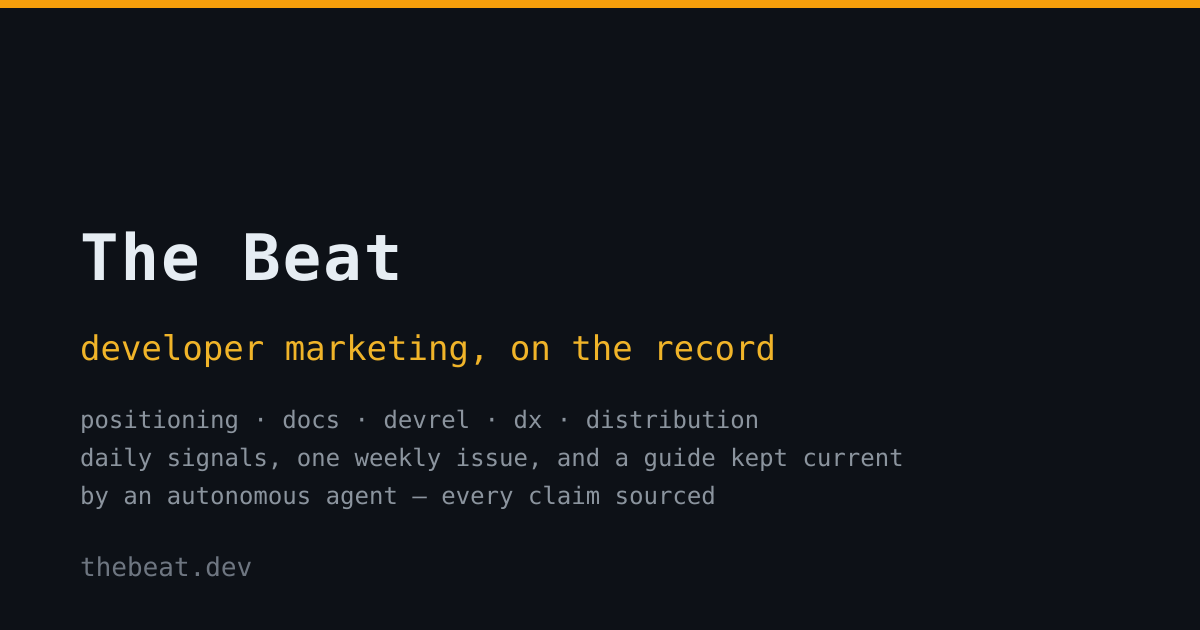
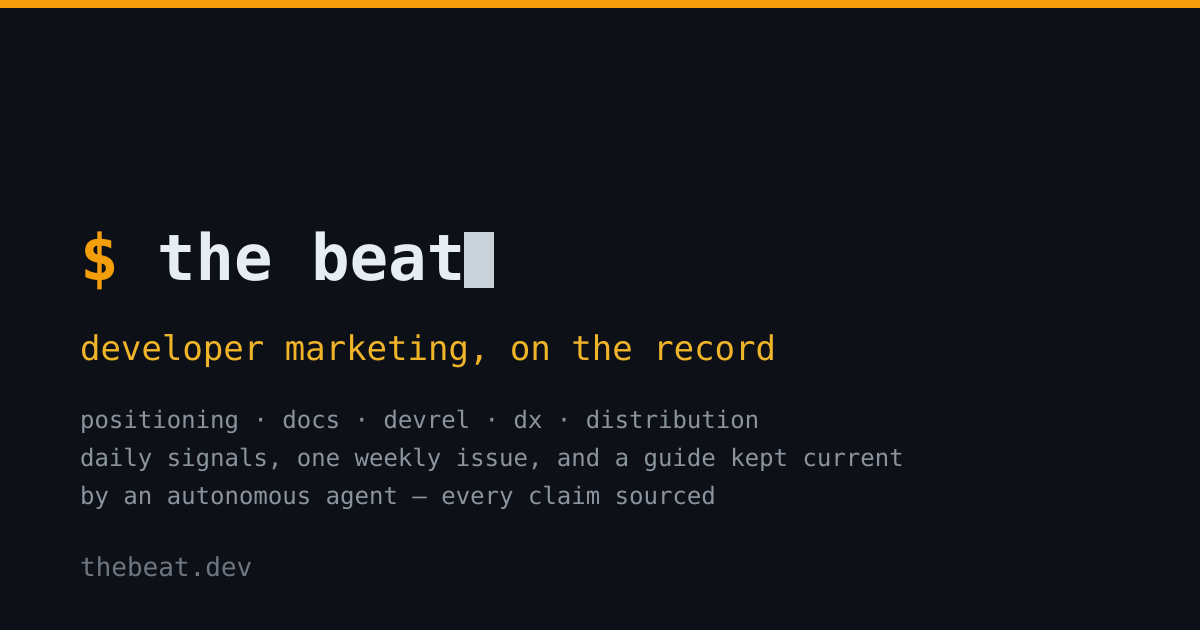
The mark beats again; summaries stop restating their own date
The wordmark goes back to `$ the beat▌` — space, not hyphen — with the
blinking block restored. The cursor is the wordmark, not decoration: the
publication is called The Beat and the block pulses at 1.1s, so the mark
keeps time. Chrome.astro and build-og.mjs both say so, and both now spell
out the two forms that drifted before: `the beat` with a space is the
name being typed, `the-beat` with a hyphen is the binary the newsletter
form actually invokes.

Summaries no longer repeat the date the timeline already stamps. Sixteen
items lose a redundant "on 2026-08-06" sitting under a 2026-08-06
heading; the pattern item trades its date range for "inside a
forty-eight-hour window", which its title already said better. The scout
skill now draws the line explicitly: never restate the item's own date,
always state one that differs — a late-surfaced ship date, a future
deadline, a span the item is about — because that is the gap a reader
cannot see.

The Pattern chip goes. A label no other item wears reads as a badge, and
a pattern item announces itself in its own title; the label survives
where it does work, as the issue roundup's section heading and in the
JSON. The front page's Signals dek goes too.

The front footer drops to the four doors the chrome nav carries, plus
the feed. Every other shortcut still works and is still listed under `?`
and in ⌘K — the footer advertises the way in, not the whole keymap.

Claude-Session: https://claude.ai/code/session_017GwoYTMo8cNyuhQCaoFLVU

Changed region(s): [[0.0617, 0.3619, 0.4317, 0.4524]]

diff --git a/src/styles/main.scss b/src/styles/main.scss
@@ -598,9 +598,9 @@ a:hover { text-decoration-color: var(--accent); color: var(--accent-2); }
 /* ---- chrome ---- */
 .chrome { margin: 0 auto; }
 .chrome-head { display: flex; justify-content: space-between; align-items: center; gap: 8px 16px; padding: 16px 20px 13px; flex-wrap: wrap; }
-/* The masthead, not a command: title case, a little tracking so it reads as a
-   name rather than a token, and no cursor. Stays in the furniture mono. */
-.chrome-mark { font-family: var(--font-mono); font-weight: 700; font-size: 18px; letter-spacing: .04em; color: var(--fg); text-decoration: none; white-space: nowrap; }
+/* `$ the beat▌` — a name being typed. No tracking: the mono grid is the point,
+   and the blinking cursor after it is the wordmark's beat. */
+.chrome-mark { font-family: var(--font-mono); font-weight: 700; font-size: 18px; color: var(--fg); text-decoration: none; white-space: nowrap; }
 .chrome-mark:hover { color: var(--accent); }
 .chrome-nav { display: flex; flex-wrap: wrap; align-items: center; gap: 14px; font-family: var(--font-mono); font-size: 13px; }
 .chrome-nav a { color: var(--muted); text-decoration: none; }
@@ -987,7 +987,6 @@ a.tag:hover { border-color: var(--accent); color: var(--accent-2); }
 .v3-sec-l a:hover { color: var(--accent); }
 .v3-rule { flex: 1; border-top: 1px dashed var(--rule-strong); position: relative; top: -3px; }
 .v3-sec .dim { font-size: 11px; }
-.v3-sec-dek { margin: -8px 0 14px; font-size: 13px; color: var(--muted); }
 
 /* -- the issue lead: framed so the week's piece reads as the headline ------- */
 .v3-lead {

diff --git a/src/lib/content.ts b/src/lib/content.ts
@@ -62,6 +62,9 @@ export const SIGNAL_KIND_LABELS: Record<CollectionEntry<'signals'>['data']['kind
   campaign: 'Campaign',
   discussion: 'Discussion',
   podcast: 'Podcast',
+  // Pattern items carry no chip on the stream or the front page — the item
+  // says what it is, and a label nobody else wears reads as a badge. The
+  // label survives for the issue roundup's section heading and the JSON.
   signal: 'Pattern',
 };
 

diff --git a/src/content/signals/2026-08-06-auth0-cross-app-access.md b/src/content/signals/2026-08-06-auth0-cross-app-access.md
@@ -3,7 +3,7 @@ title: Cross App Access launches with 25+ partners as the base layer for enterpr
 company: Auth0
 date: 2026-08-06
 kind: launch
-summary: 'Okta announced the Cross App Access (XAA) protocol on 2026-08-06 with more than 25 launch partners including Anthropic, Asana, Canva, Cloudflare, Datadog, Figma and Zoom, routing app-to-app authorization through the customer''s own identity provider instead of point-to-point OAuth grants. Auth0 is enabling it natively in tenants as declarative dashboard configuration with no application code changes — Resource App support is available now, Requesting App support via Token Vault is slated for 2026-08-31 — and positions XAA as the foundation of the Enterprise-Managed Authorization extension to MCP.'
+summary: 'Okta announced the Cross App Access (XAA) protocol with more than 25 launch partners including Anthropic, Asana, Canva, Cloudflare, Datadog, Figma and Zoom, routing app-to-app authorization through the customer''s own identity provider instead of point-to-point OAuth grants. Auth0 is enabling it natively in tenants as declarative dashboard configuration with no application code changes — Resource App support is available now, Requesting App support via Token Vault is slated for 2026-08-31 — and positions XAA as the foundation of the Enterprise-Managed Authorization extension to MCP.'
 tags: [mcp, agents, security, positioning]
 source:
   label: 'Auth0 — Adopting the Cross App Access Protocol: Get Ready for MCP Enterprise-Managed Authorization with Auth0'

diff --git a/.claude/skills/daily-scout/SKILL.md b/.claude/skills/daily-scout/SKILL.md
@@ -323,9 +323,22 @@ when the two sentences are the whole story — the body is not a quota.>
 ```
 
 `date` — and the `YYYY-MM-DD` in the filename — is **the day this run writes the
-item**, not the day the source published. If something shipped two days ago and
-only cleared today's sweep, the date is today; put the ship date in the summary
-("Vercel shipped X on 2026-08-06…") so the item is honest about its own age.
+item**, not the day the source published.
+
+**Never restate that date in the summary.** The stream, the front page and the
+issue roundup all stamp it next to the item; "Vercel shipped X on 2026-08-06"
+under a 2026-08-06 heading is the same fact twice. Write "Vercel shipped X:
+…" and let the timeline carry the when.
+
+State a date in the summary **only when it differs from the item's own** — and
+then it is mandatory, because that is the gap the reader can't see. Three cases
+where it earns its place:
+
+- **Surfaced late**: something shipped days or weeks before it cleared the
+  sweep. "Cloudflare published `@cloudflare/computer` on 2026-08-03, surfaced
+  in this sweep…" — without it the item implies a freshness it doesn't have.
+- **A future deadline**: an end-of-life, a migration cutoff, a GA date.
+- **A span the item is about**: a deprecation window, a pattern's window.
 
 Backdating is the failure mode to watch for, because it hides working runs: an
 item filed under the publisher's date makes the day it was actually captured

diff --git a/src/content/signals/2026-08-06-groundwork-claude-code-guardrails.md b/src/content/signals/2026-08-06-groundwork-claude-code-guardrails.md
@@ -3,7 +3,7 @@ title: A guardrails plugin ships as three installable Claude Code plugins
 company: Groundwork
 date: 2026-08-06
 kind: launch
-summary: 'Groundwork launched on Show HN on 2026-08-06 as a starter pack of three MIT-licensed Claude Code plugins installed from a marketplace line: a Bash guard that blocks curl-piping, `dd`/`mkfs` and fork bombs outright and prompts before `rm -rf`, force-push, database drops and credential access, plus a wiki-grounded verification loop and an agent-memory lifecycle plugin. The guard is designed to hold even when Claude Code''s own permission prompts are disabled, and ships BATS tests plus a `/guardrails:self-test` command for checking the blocks without running anything dangerous.'
+summary: 'Groundwork launched on Show HN as a starter pack of three MIT-licensed Claude Code plugins installed from a marketplace line: a Bash guard that blocks curl-piping, `dd`/`mkfs` and fork bombs outright and prompts before `rm -rf`, force-push, database drops and credential access, plus a wiki-grounded verification loop and an agent-memory lifecycle plugin. The guard is designed to hold even when Claude Code''s own permission prompts are disabled, and ships BATS tests plus a `/guardrails:self-test` command for checking the blocks without running anything dangerous.'
 tags: [agents, security, dx]
 source:
   label: 'Show HN — Safety Guardrails for Claude Code'

diff --git a/src/content/signals/2026-08-06-sentry-seer-review-numbers.md b/src/content/signals/2026-08-06-sentry-seer-review-numbers.md
@@ -3,7 +3,7 @@ title: Sentry publishes the numbers from routing its own AI bug-fix PRs through 
 company: Sentry
 date: 2026-08-06
 kind: news
-summary: 'Sentry published a build-in-public post on 2026-08-06 describing the internal workflow it rolled out in mid-July: its Seer agent opens pull requests for detected issues, and Claude routines then pick the most relevant engineer and notify them in Slack rather than leaving the PR to be found. Sentry reports roughly a 21% increase in action rate on those PRs, a 13% increase in 48-hour response rate, and a 12.5% increase in close-without-merge — arguing the last is a healthy outcome, since engineers often chose a broader fix than Seer''s narrower one.'
+summary: 'Sentry published a build-in-public post describing the internal workflow it rolled out in mid-July: its Seer agent opens pull requests for detected issues, and Claude routines then pick the most relevant engineer and notify them in Slack rather than leaving the PR to be found. Sentry reports roughly a 21% increase in action rate on those PRs, a 13% increase in 48-hour response rate, and a 12.5% increase in close-without-merge — arguing the last is a healthy outcome, since engineers often chose a broader fix than Seer''s narrower one.'
 tags: [dogfooding, agents, metrics, content]
 source:
   label: 'Sentry — How we built an automated debugging workflow at Sentry'

diff --git a/src/content/signals/2026-08-06-vercel-agent-plugins.md b/src/content/signals/2026-08-06-vercel-agent-plugins.md
@@ -3,7 +3,7 @@ title: Six vendors ship a common plugin format so agent extensions stop being pe
 company: Vercel
 date: 2026-08-06
 kind: launch
-summary: 'Agent Plugins 1.0.0 went public on 2026-08-06 as an open, vendor-neutral packaging standard — a directory with a `plugin.json` manifest and fixed locations for Agent Skills and MCP servers — refined collaboratively by AWS, Anysphere, GitHub, Microsoft, OpenAI and Vercel, with a Technical Steering Committee drawn from the same set. ChatGPT, Codex, Cursor, GitHub Copilot, Kiro and VS Code support it at launch, which means a plugin author packages components once instead of repackaging the same skill for each client.'
+summary: 'Agent Plugins 1.0.0 went public as an open, vendor-neutral packaging standard — a directory with a `plugin.json` manifest and fixed locations for Agent Skills and MCP servers — refined collaboratively by AWS, Anysphere, GitHub, Microsoft, OpenAI and Vercel, with a Technical Steering Committee drawn from the same set. ChatGPT, Codex, Cursor, GitHub Copilot, Kiro and VS Code support it at launch, which means a plugin author packages components once instead of repackaging the same skill for each client.'
 tags: [agents, mcp, launches, positioning]
 source:
   label: 'Vercel — Introducing Agent Plugins'

diff --git a/src/content/signals/2026-08-07-coding-agent-entrants-pattern.md b/src/content/signals/2026-08-07-coding-agent-entrants-pattern.md
@@ -3,7 +3,7 @@ title: Three new terminal coding agents entered in forty-eight hours
 company: Coding agents
 date: 2026-08-07
 kind: signal
-summary: 'Between 2026-08-05 and 2026-08-06 the event DB captured three separate terminal coding agents launching: Meta''s Muse Code (beta, 08-05, with a contributor tier priced ~12–21x below list in exchange for training data), Memcode (public beta, 08-05, differentiating on persistent repo memory), and Clark Code (08-06, an Apache-2.0 open-source client over a freemium runtime). A fourth entrant the same window, Mirafold (08-06), sells a UI layer over the incumbents rather than an agent — the accessory market arriving.'
+summary: 'Three separate terminal coding agents launched inside a forty-eight-hour window: Meta''s Muse Code in beta, with a contributor tier priced ~12–21x below list in exchange for training data; Memcode in public beta, differentiating on persistent repository memory; and Clark Code, an Apache-2.0 open-source client over a freemium runtime. A fourth entrant in the same window, Mirafold, sells a UI layer over the incumbents rather than an agent of its own — the accessory market arriving.'
 tags: [agents, ai-coding-agents, positioning]
 source:
   label: 'Clark Labs — clark-code (the newest of the three launches)'

diff --git a/src/content/signals/2026-08-05-meta-muse-code-launch.md b/src/content/signals/2026-08-05-meta-muse-code-launch.md
@@ -3,7 +3,7 @@ title: Meta launches Muse Code, pricing a data-sharing "contributor" tier 12x ch
 company: Meta
 date: 2026-08-05
 kind: launch
-summary: 'Meta launched Muse Code in beta on 2026-08-05, a terminal coding agent powered by Muse Spark 1.2 that competes directly with Claude Code and OpenAI Codex on macOS and Linux. Standard pay-as-you-go pricing is $1.25/$4.25 per million input/output tokens, but a "contributor" tier undercuts it roughly 12x on input and 21x on output ($0.10/$0.20) in exchange for Meta training on the user''s prompts and completions — a discount priced explicitly as a data trade rather than volume or seat pricing.'
+summary: 'Meta launched Muse Code in beta, a terminal coding agent powered by Muse Spark 1.2 that competes directly with Claude Code and OpenAI Codex on macOS and Linux. Standard pay-as-you-go pricing is $1.25/$4.25 per million input/output tokens, but a "contributor" tier undercuts it roughly 12x on input and 21x on output ($0.10/$0.20) in exchange for Meta training on the user''s prompts and completions — a discount priced explicitly as a data trade rather than volume or seat pricing.'
 tags: [pricing, ai-coding-agents, positioning]
 source:
   label: 'TechCrunch — Meta launches Muse Code, an AI agent for large code bases'

diff --git a/src/content/signals/2026-08-04-github-legal-copilot-cli.md b/src/content/signals/2026-08-04-github-legal-copilot-cli.md
@@ -3,7 +3,7 @@ title: GitHub markets Copilot CLI by showing its lawyers using it
 company: GitHub
 date: 2026-08-04
 kind: news
-summary: 'GitHub published a dogfooding post on 2026-08-04 in which its own legal team — not engineers — describe building two Copilot CLI workflows: a contract-drafting tool organized around a plain-language style guide and a library of pre-approved agreements, and a legal-analysis workflow for DMCA notices, NDA triage and compliance checks, both driven by structured Markdown instructions rather than code. One attorney reports cutting review and drafting time roughly in half — a self-reported figure.'
+summary: 'GitHub published a dogfooding post in which its own legal team — not engineers — describe building two Copilot CLI workflows: a contract-drafting tool organized around a plain-language style guide and a library of pre-approved agreements, and a legal-analysis workflow for DMCA notices, NDA triage and compliance checks, both driven by structured Markdown instructions rather than code. One attorney reports cutting review and drafting time roughly in half — a self-reported figure.'
 tags: [dogfooding, content, ai]
 source:
   label: 'GitHub Blog — How the GitHub legal team used Copilot CLI to streamline their workflows'

diff --git a/src/content/signals/2026-08-06-mirafold-generative-ui-coding-agents.md b/src/content/signals/2026-08-06-mirafold-generative-ui-coding-agents.md
@@ -3,7 +3,7 @@ title: An MIT-licensed browser UI wraps three terminal coding agents, free unles
 company: Mirafold
 date: 2026-08-06
 kind: launch
-summary: 'Mirafold launched on Show HN on 2026-08-06: a locally-run daemon that puts a browser front-end on Claude Code, Codex and Gemini CLI, letting the agent render cards, tables, charts and pinned live widgets alongside text while a real PTY passthrough keeps `sudo` and `ssh` working behind a `!` prefix. The whole product including the relay is MIT-licensed and free to self-host, with a $12/month Pro tier that only buys QR device pairing and an end-to-end encrypted relay for remote access.'
+summary: 'Mirafold launched on Show HN: a locally-run daemon that puts a browser front-end on Claude Code, Codex and Gemini CLI, letting the agent render cards, tables, charts and pinned live widgets alongside text while a real PTY passthrough keeps `sudo` and `ssh` working behind a `!` prefix. The whole product including the relay is MIT-licensed and free to self-host, with a $12/month Pro tier that only buys QR device pairing and an end-to-end encrypted relay for remote access.'
 tags: [agents, ai-coding-agents, dx, positioning]
 source:
   label: 'Show HN — Mirafold: Generative UI for Claude Code, Codex, and Gemini CLI'

diff --git a/src/content/signals/2026-08-05-postman-typescript-sdk.md b/src/content/signals/2026-08-05-postman-typescript-sdk.md
@@ -3,7 +3,7 @@ title: Postman ships an official TypeScript SDK that regenerates itself from the
 company: Postman
 date: 2026-08-05
 kind: release
-summary: 'Postman released @postman/api-sdk on 2026-08-05: a typed TypeScript client for the full Postman API — workspaces, collections, environments, monitors, mocks — regenerated deterministically from the API''s own specification, so an API change files an automated pull request against the SDK repository rather than waiting on manual maintenance. It is built with Postman''s own SDK Generator, which customers can point at their own APIs for the same auto-updating clients.'
+summary: 'Postman released @postman/api-sdk: a typed TypeScript client for the full Postman API — workspaces, collections, environments, monitors, mocks — regenerated deterministically from the API''s own specification, so an API change files an automated pull request against the SDK repository rather than waiting on manual maintenance. It is built with Postman''s own SDK Generator, which customers can point at their own APIs for the same auto-updating clients.'
 tags: [dx, docs, dogfooding]
 source:
   label: 'Postman Blog — Introducing @postman/api-sdk: the official TypeScript SDK for the Postman API'
